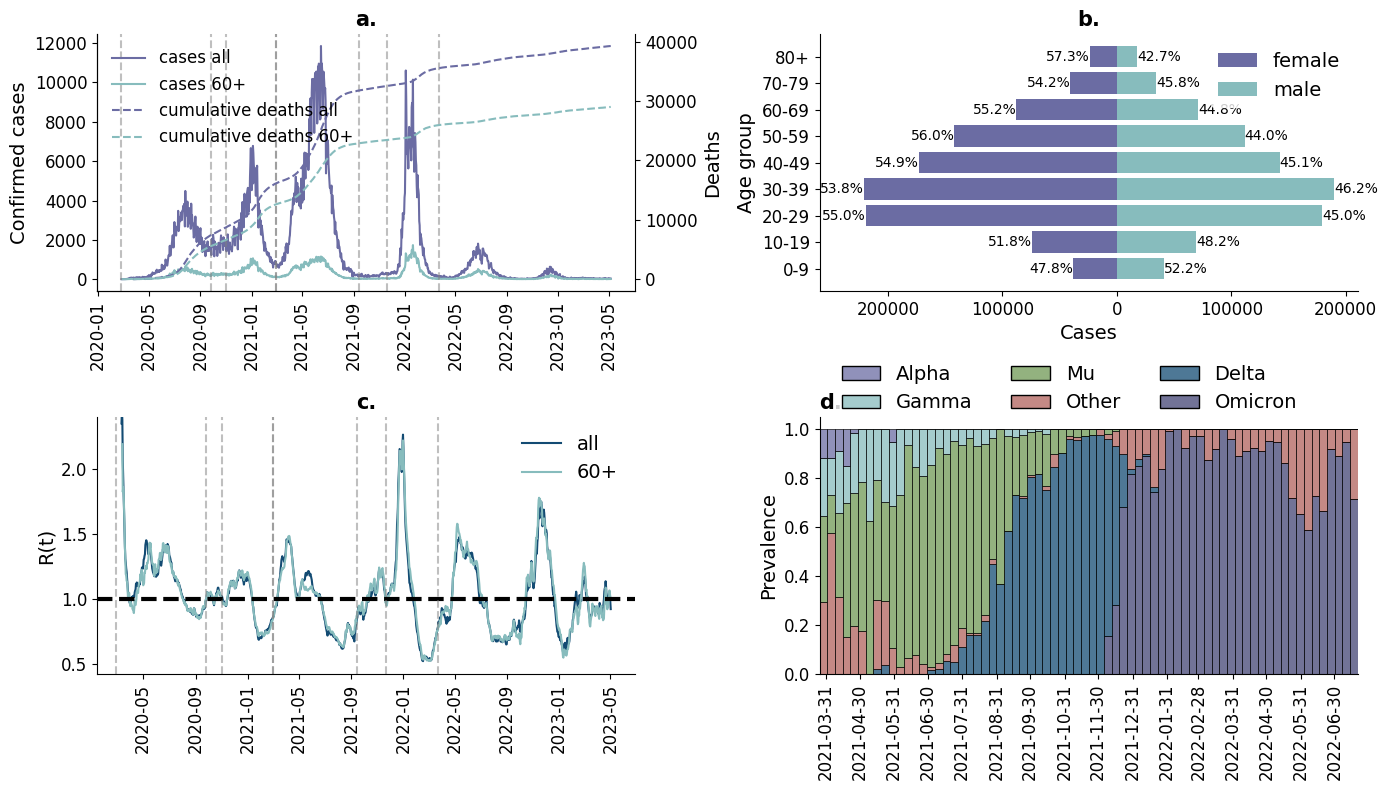
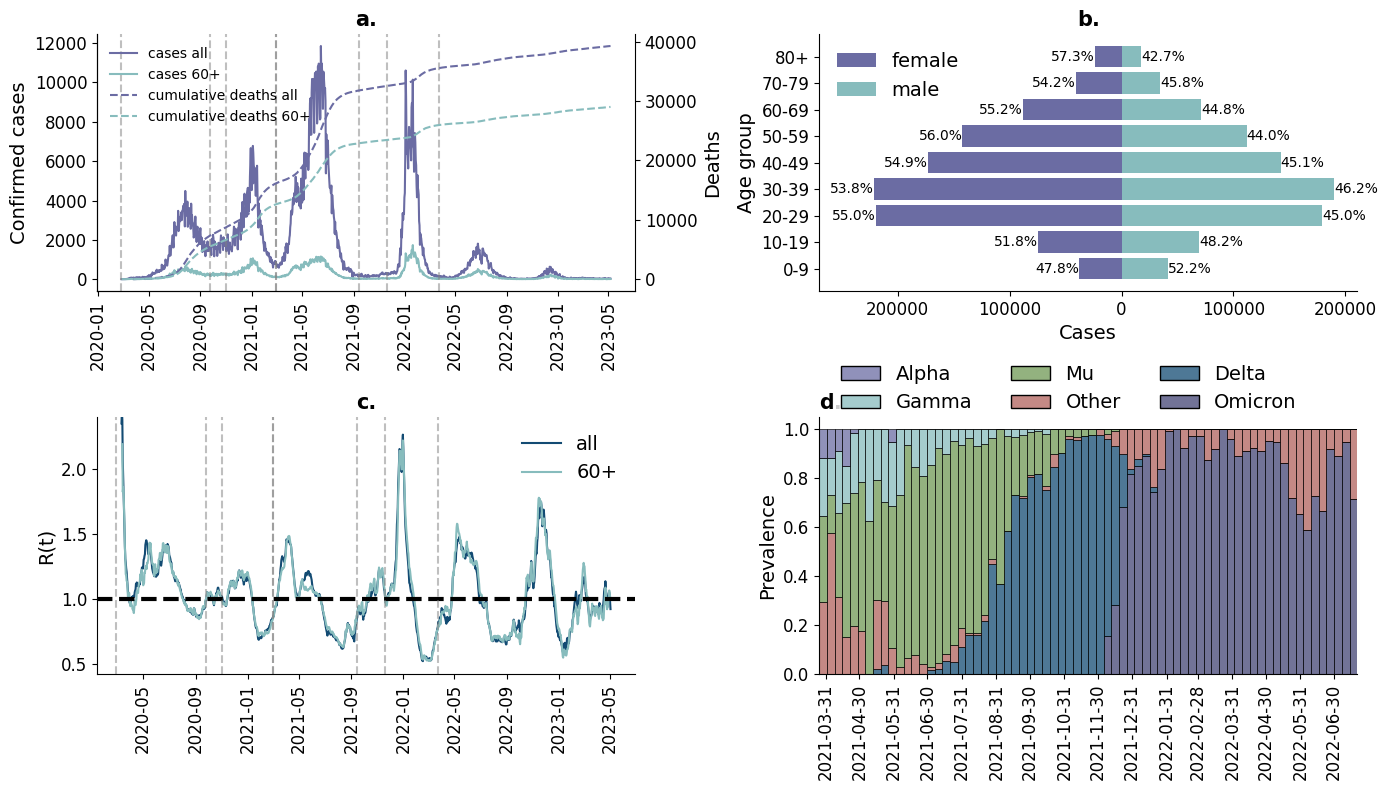
minor corrections to figure 1 legends

diff --git a/plots/overview.py b/plots/overview.py
@@ -97,7 +97,7 @@ def plot_cases_death_cum(ax):
         ax.tick_params(axis='x', rotation=90)
         ax.set_ylabel('Confirmed cases')
 
-        ax_twin.legend(lns, labs, loc='upper left', frameon=False, fontsize=12)
+        ax_twin.legend(lns, labs, loc='upper left', frameon=False, fontsize=10)
         ax_twin.spines.right.set_visible(True) #This was set as False by default in the .mpstyle file
         ax_twin.tick_params(axis='x', rotation=90)
         ax_twin.set_ylabel('Deaths')

diff --git a/plots/figure_1.py b/plots/figure_1.py
@@ -31,11 +31,11 @@ axi.set_title('a.')
 
 axi = ax[0][1]
 overview.plot_pyramid(ax = axi)
-axi.set_xlim(left=-260000)
+axi.set_xlim(left=-270000)
 axi.set_xlabel('Cases')
 axi.set_ylabel('Age group')
 axi.set_title('b.')
-axi.legend()  
+axi.legend(loc = 'upper left')  
 
 axi = ax[1][0]
 results_rt.plot_rt(ax = axi)
